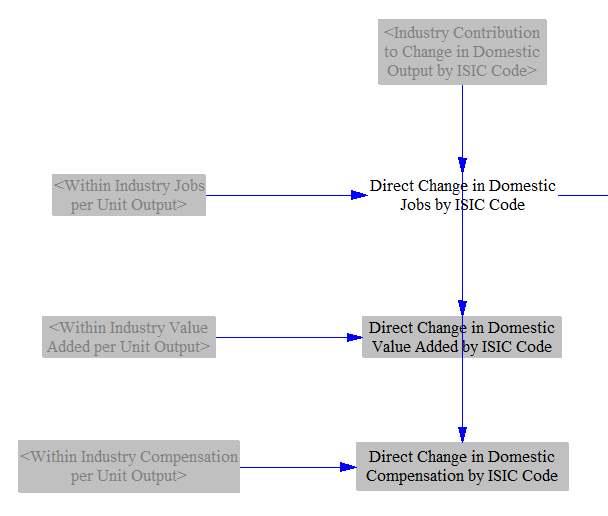
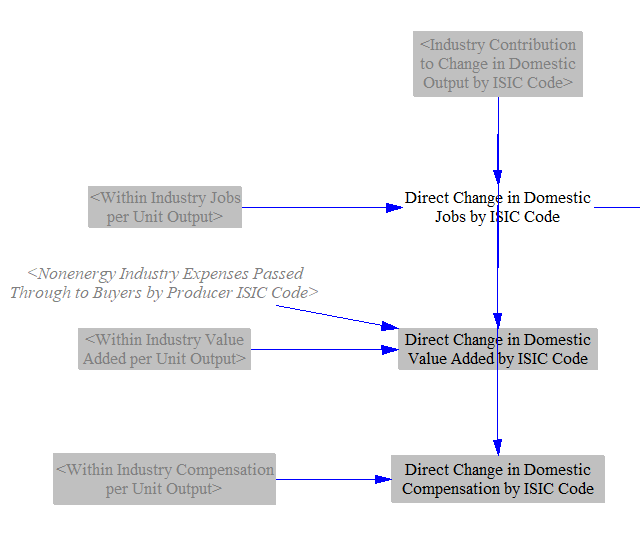
Update IO Model doc page to reflect bug fix in commit d5952a3

Changed region(s): [[0.0625, 0.031, 1.0, 0.9612], [0.0312, 0.8372, 0.4375, 0.9612], [0.0, 0.4961, 0.5, 0.5581]]

diff --git a/docs/io-model.md b/docs/io-model.md
@@ -139,6 +139,10 @@ Policy-driven changes in industries' revenues have already been assigned to ISIC
 
 ![clean up of change in industry output to ISIC codes](io-model-IndustryOutputAllocated.png)
 
+Expenses passed through to buyers (such as raising the price of a good by the amount of a tax levied on that good) don't increase output for employment (or employee compensation) purposes.  An industry doesn't need more workers because it is not making more products.  Therefore, we remove industry's revenue from passthrough costs from industry's contribution to output.  (For calculation of value added, we will add the passthrough costs back in later, because taxes and employee compensation paid are a part of value added and contribute to GDP.)  For more on how passthrough costs are calculated, see the [industry - cash flow](industry-ag-cash.html) documentation page.
+
+![removal of passthrough costs from industry output](io-model-IndustryPassthruRemoval.png)
+
 Next, we remove the "foreign content share" (the fraction of the spending on each ISIC code that is supplied by foreign entities - i.e. imports) from the total.  This restricts the changes in output to those affecting domestic suppliers in each ISIC code, which helps us calculate the effects of the policies on domestic (rather than domestic + foreign) jobs, GDP, and employee compensation.
 
 (The import/export code on the [Fuels](fuels.html) sheet is not a replacement for doing this for the fuel industries.  The fuel trade code adds revenue for fuel exports and adds expenditures for fuel imports, but we use revenues here (not cash flows), so the revenues used here still include any changes in payments to foreign fuel suppliers.  Therefore, no exception is made for fuel industries here.)
@@ -166,8 +170,6 @@ Some details about these three metrics:
 - Employee compensation includes not just salary, but also bonuses, employer-paid benefits, employer contributions to retirement plans, etc.
 
 We divide each of the three key metrics (jobs, value added, and employee compensation) by output to obtain "within industry" jobs, value added, or employee compensation per unit of output that ISIC code generates.  This provides a measure of direct (first-order) job intensity, value added intensity, and employee compensation intensity of each ISIC code.  These intensity or "Direct Requirements" variables will be used later to help us calculate the direct impacts of the policy package.
-
-We adjust the within-industry jobs and within-industry intensity variables to account for "passthrough costs" incurred by industry.  Expenses passed through to buyers (such as raising the price of a good by the amount of a tax levied on that good) doesn't increase output for employment purposes.  An industry doesn't need more workers because it is not making more products.  Therefore, we adjust the within-industry jobs and EE compensation to account for passthrough costs.  We do not adjust within-industry value added because taxes paid (and employee compensation paid) are a part of value added and contribute to economic output and GDP.  For more on how passthrough costs are calculated, see the [industry - cash flow](industry-ag-cash.html) documentation page.
 
 ![within-industry job, value added, and employee compensation intensities](io-model-WithinIndustryIntensities.png)
 
@@ -204,6 +206,8 @@ We then multiply the within-industry intensities by our modified DLIM to obtain 
 Now that we have constructed our trios of DLIM-like "requirements" variables, we can multiply the policy-driven changes in output by ISIC code (vector variables calculated earlier) by each requirements variable, to obtain the number of jobs, amount of value added, and amount of employee compensation that the policy package brought about in the course of creating the known change in output for each ISIC code.
 
 We do this separately for direct, indirect, and induced impacts, so we may report them in these categories in our final output.  Direct impacts utilize only industry contribution to change in output (e.g. direct effects of policies on industry from the various sectors, plus any changes in taxes paid by industry due to GRA levers).  These changes in output are multiplied by the direct (e.g. within-industry) requirements varaibles.
+
+When calculating value added, we add industry's added revenue from passthrough expenses back into the industry contribution (which was removed earlier), because this revenue does contribute to value added (but not to employment or employee compensation), as discussed above.
 
 ![direct policy impacts](io-model-DirectImpacts.png)
 
